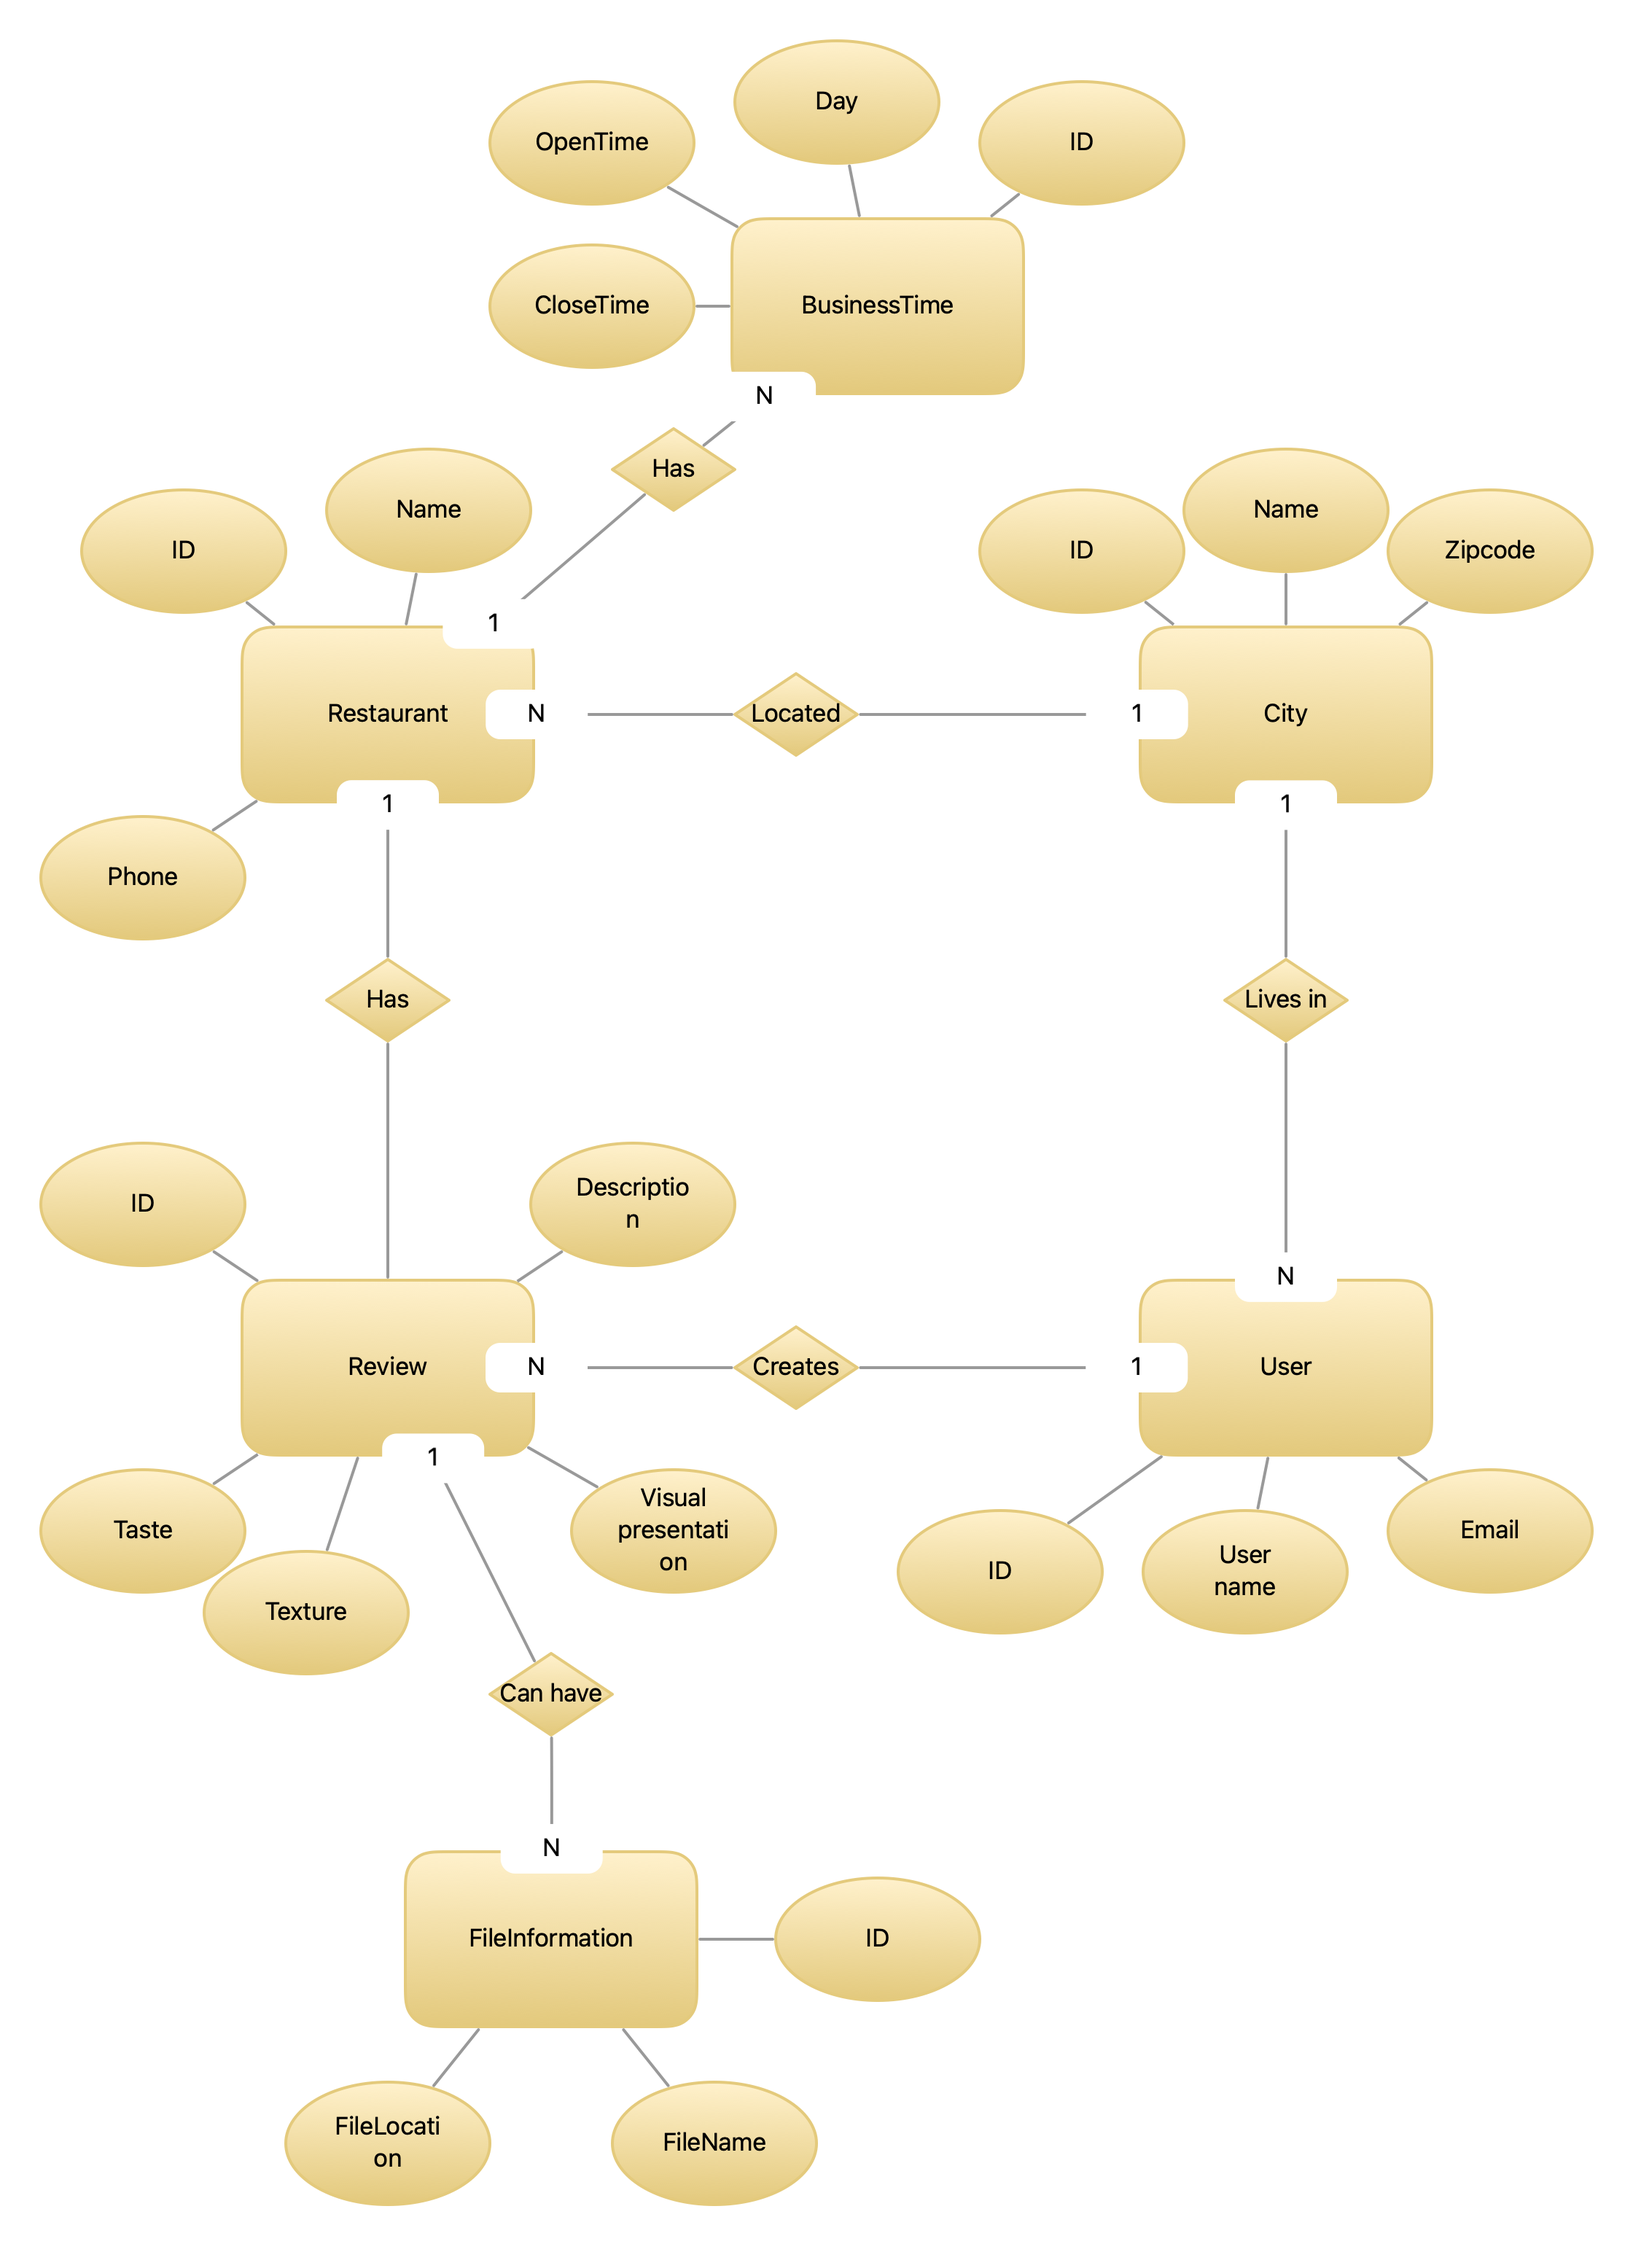
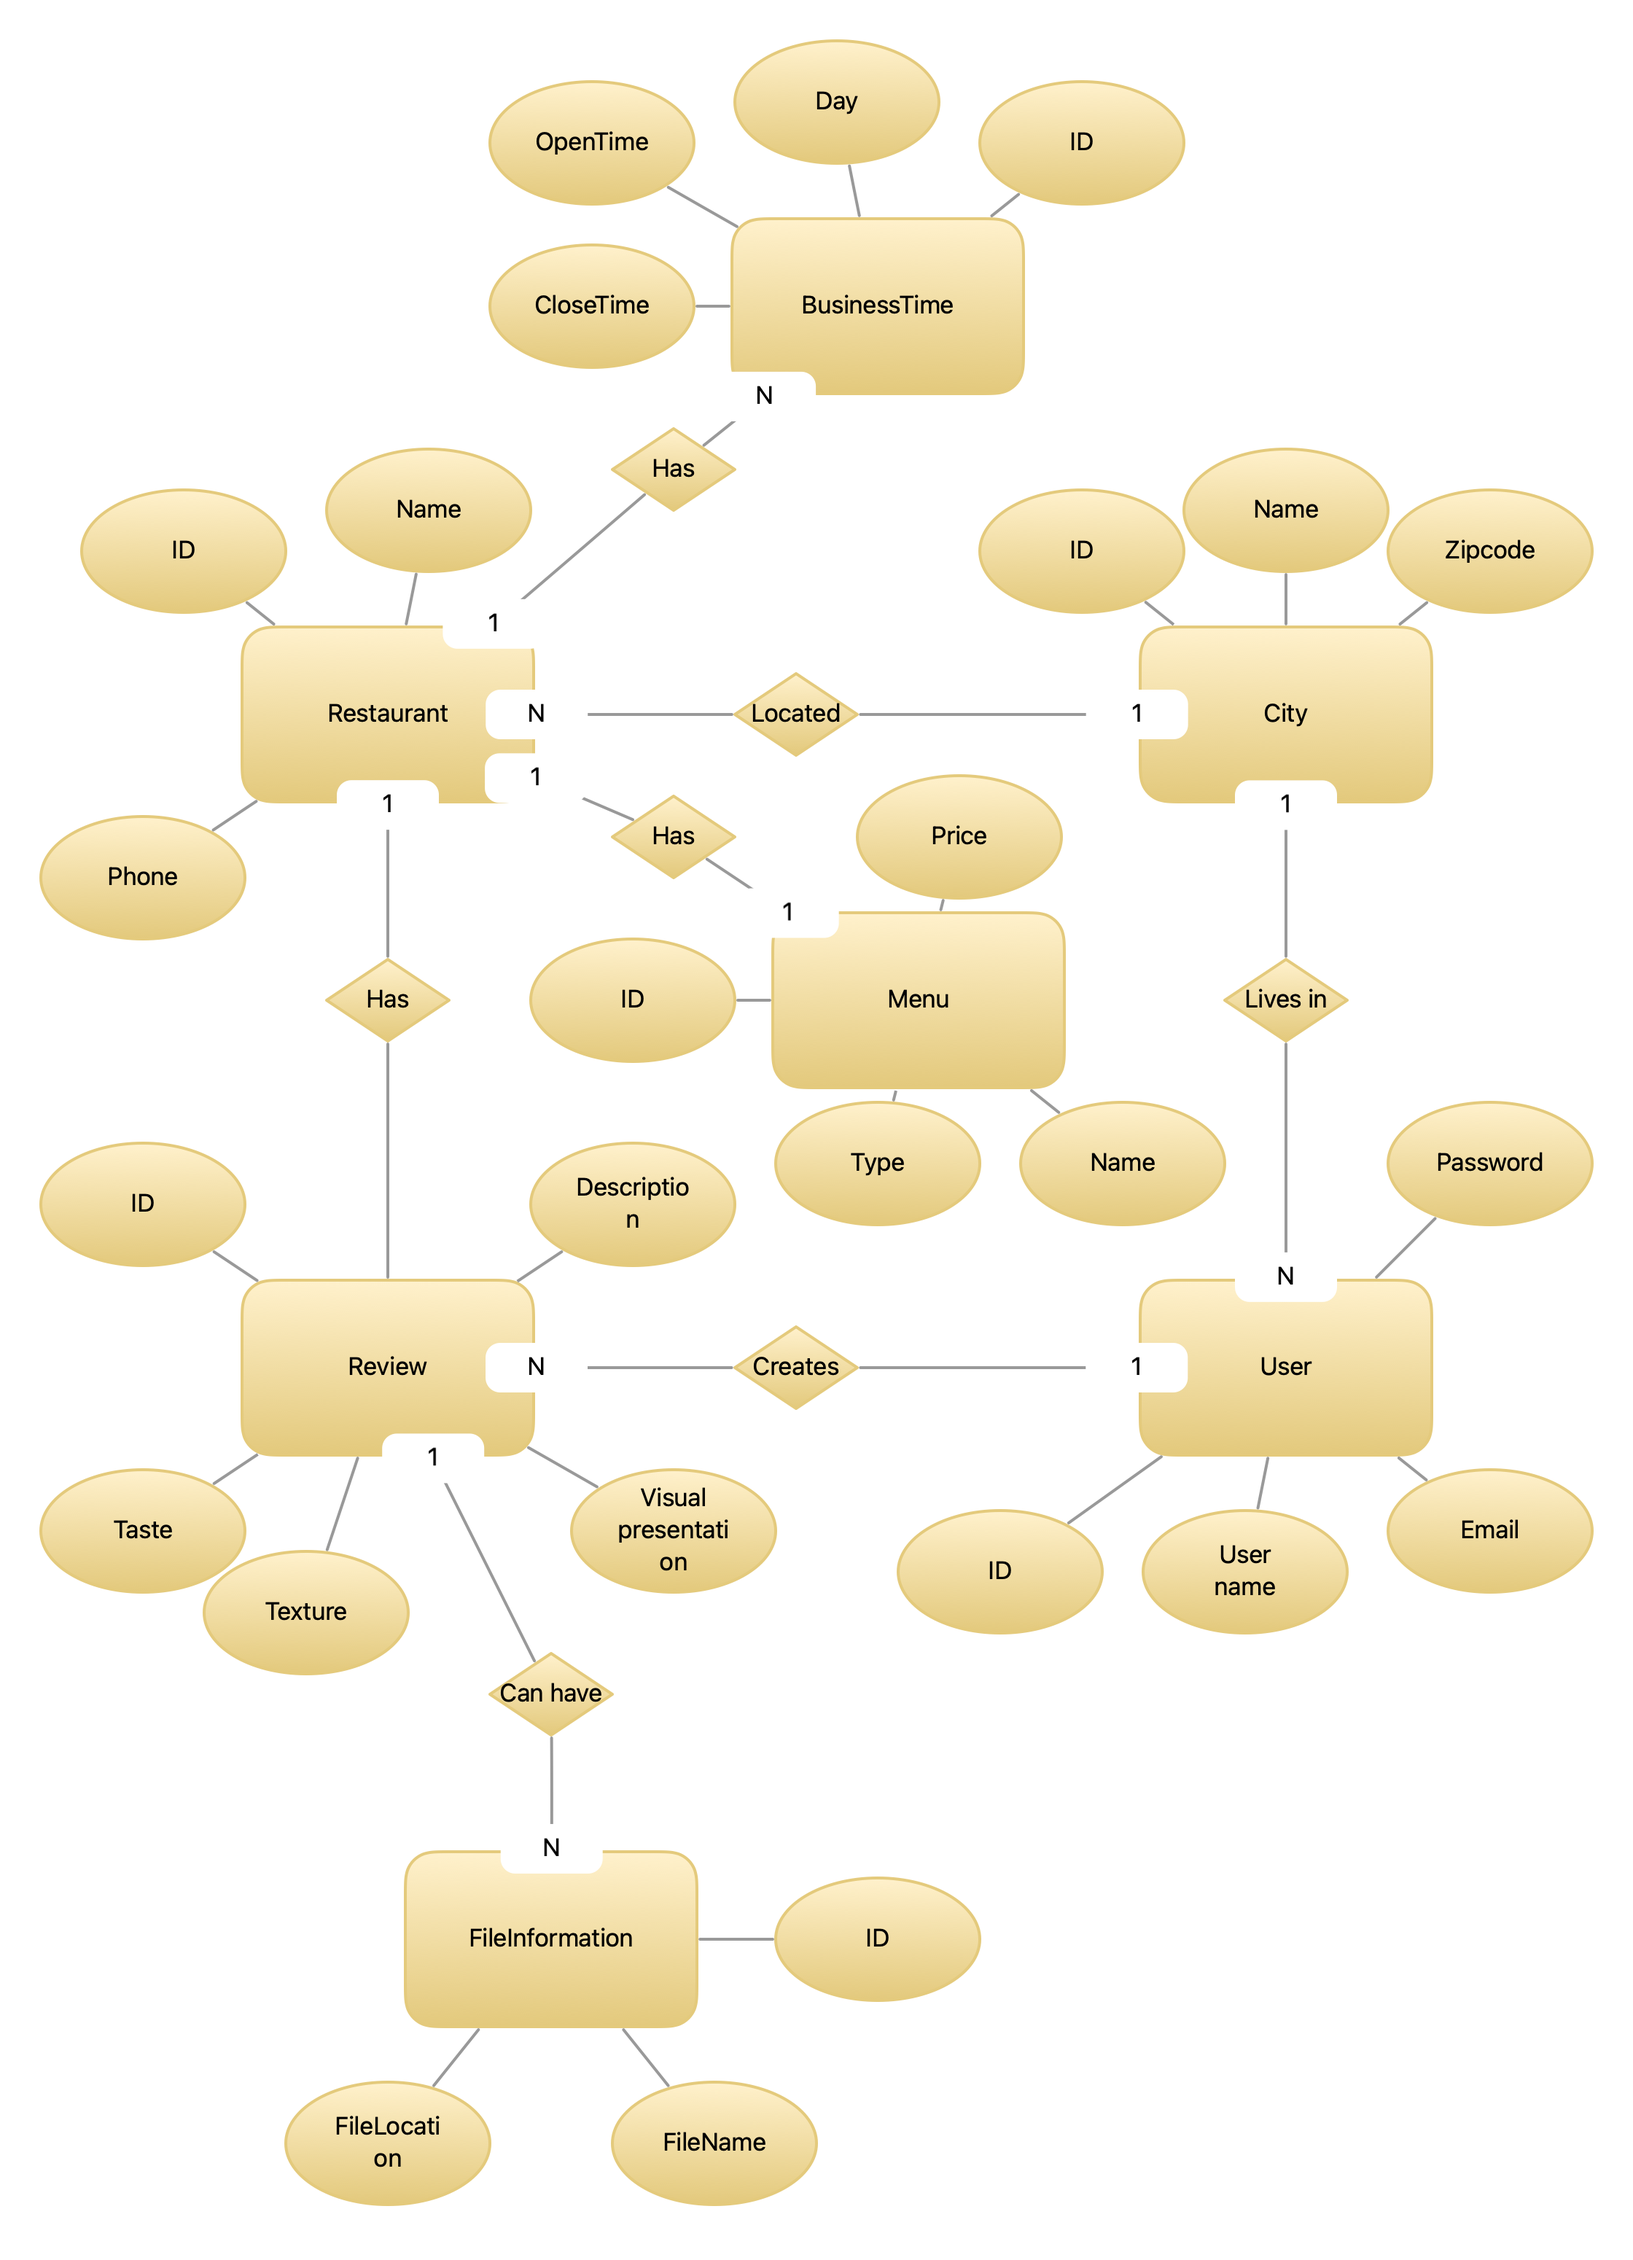
Added a few diagrams an updated to log

Changed region(s): [[0.3125, 0.3406, 0.75, 0.5574], [0.8438, 0.4645, 1.0, 0.5574], [0.2812, 0.3097, 0.3438, 0.3716]]

diff --git a/Log.md b/Log.md
@@ -15,3 +15,13 @@ assignment.
 
 But aktual work today, consisted of a small ER-diagram and creating a small database within MS SQL. Then i added some more strukture to the project and hope i will get it done tomorrow. I should have a few more
 available hours there.
+
+Log 28-11-2021
+Today is the day i have to most time. My goal is to finish the code and at least have a running application with multiple end-points.
+update: so i have spend to much time getting autofac to work. It is normally quite simple but i haven't implemented within a project from scratch, i years.
+So before i commit my 'review' branch changes, then i have to pull out all the autofac work.
+
+Log 29-11-2021
+Had to use some flex time for work today. Had two important meetings but i had to hurry back to this assignment afterwards. I started creating
+an alternativ solution with serverless. Not any kind of implementation but just an idea with drawings. I did this, when i had to sketch N-tier model
+of the current system. I don't have a lot of time to finish the code.
